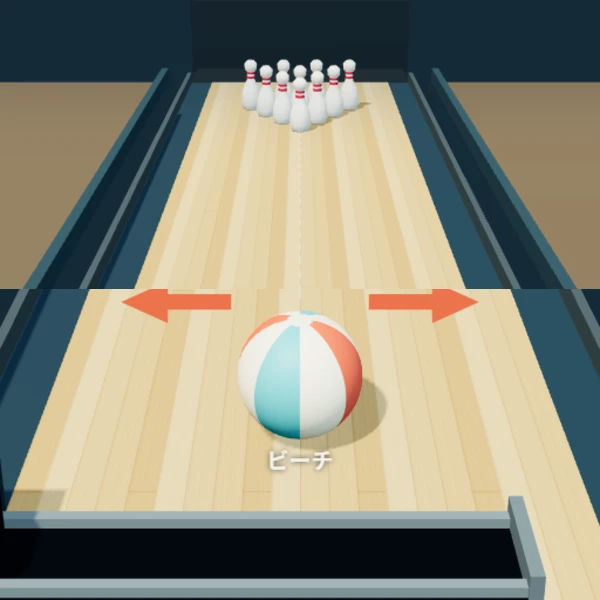
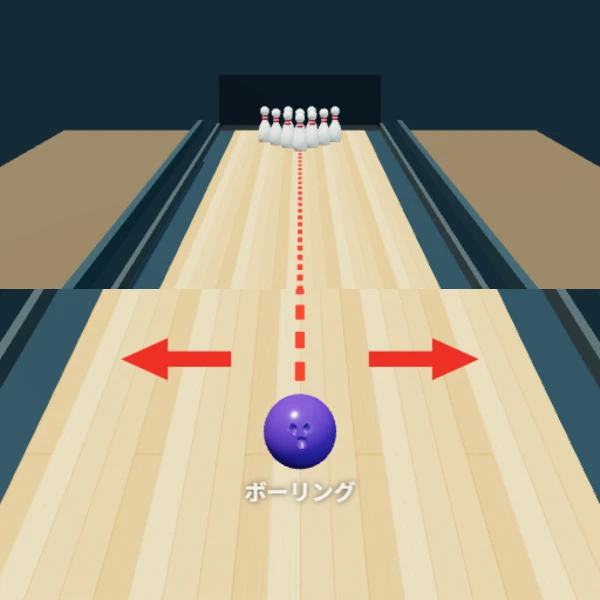
投球線を赤くし球の補充とレーンの奥行きを調整

diff --git a/games/_random-bowling/scene.js b/games/_random-bowling/scene.js
@@ -6,13 +6,13 @@ var ZBowlingScene=(function(){
     this.renderer=new T.WebGLRenderer({antialias:true,alpha:false,preserveDrawingBuffer:true});
     this.renderer.setPixelRatio(1);this.renderer.shadowMap.enabled=true;this.renderer.shadowMap.type=T.PCFSoftShadowMap;
     this.renderer.outputColorSpace=T.SRGBColorSpace;this.renderer.toneMapping=T.ACESFilmicToneMapping;this.renderer.toneMappingExposure=1.25;
-    this.scene=new T.Scene();this.scene.scale.x=-1;this.scene.background=new T.Color('#142a37');this.scene.fog=new T.Fog('#142a37',24,65);
+    this.scene=new T.Scene();this.scene.scale.x=-1;this.scene.background=new T.Color('#142a37');this.scene.fog=new T.Fog('#142a37',42,85);
     this.camera=new T.PerspectiveCamera(52,540/960,.08,100);
-    this.camera.position.set(0,6.6,-8.7);this.camera.lookAt(0,0,9);
+    this.camera.position.set(0,5.4,-8.7);this.camera.lookAt(0,0,14);
     this.follow=0;this.followX=0;this.look=new T.Vector3(0,0,9);this.w=540;this.h=960;
     this.scene.add(new T.HemisphereLight('#deefff','#625743',2.1));
-    var light=new T.DirectionalLight('#fff1d5',3.3);light.position.set(-4,10,6);light.castShadow=true;
-    light.shadow.mapSize.set(2048,2048);Object.assign(light.shadow.camera,{left:-8,right:8,top:20,bottom:-18,near:1,far:40});light.target.position.set(0,0,11);light.shadow.bias=-.0002;this.scene.add(light,light.target);
+    var light=new T.DirectionalLight('#fff1d5',3.3);light.position.set(-4,14,18);light.castShadow=true;
+    light.shadow.mapSize.set(2048,2048);Object.assign(light.shadow.camera,{left:-8,right:8,top:28,bottom:-28,near:1,far:65});light.target.position.set(0,0,20);light.shadow.bias=-.0002;this.scene.add(light,light.target);
     var fill=new T.DirectionalLight('#9dcede',1.3);fill.position.set(5,6,-8);this.scene.add(fill);
     function mat(color,roughness,metalness){return new T.MeshStandardMaterial({color:color,roughness:roughness==null?.5:roughness,metalness:metalness||0});}
     function box(x,y,z,w,h,d,m){var mesh=new T.Mesh(new T.BoxGeometry(w,h,d),m);mesh.position.set(x,y,z);mesh.receiveShadow=true;mesh.castShadow=true;self.scene.add(mesh);return mesh;}
@@ -24,23 +24,20 @@ var ZBowlingScene=(function(){
       for(var y=100+(i%4)*150;y<1024;y+=470){c.fillStyle='rgba(74,48,26,.13)';c.fillRect(i*25.6,y,25.6,1);}
     }
     var wt=new T.CanvasTexture(wood);wt.colorSpace=T.SRGBColorSpace;wt.anisotropy=Math.min(8,this.renderer.capabilities.getMaxAnisotropy());
-    var lane=new T.Mesh(new T.PlaneGeometry(5.3,27),new T.MeshStandardMaterial({map:wt,roughness:.3,metalness:.05}));lane.rotation.x=-Math.PI/2;lane.position.set(0,.002,10.5);lane.receiveShadow=true;this.scene.add(lane);
-    box(0,-.22,10.5,6.8,.4,27,mat('#273d49',.5));
-    [-1,1].forEach(function(s){box(s*2.96,-.12,10.5,.61,.13,27,mat('#0a1820',.28,.4));box(s*3.32,.1,10.5,.12,.38,27,mat('#70838b',.28,.65));});
-    box(0,-.28,25.5,6.7,.3,3,mat('#101d25',.85));box(0,.9,27,7,2.3,.3,mat('#10222d',.75));
+    var lane=new T.Mesh(new T.PlaneGeometry(5.3,39),new T.MeshStandardMaterial({map:wt,roughness:.3,metalness:.05}));lane.rotation.x=-Math.PI/2;lane.position.set(0,.002,16.5);lane.receiveShadow=true;this.scene.add(lane);
+    box(0,-.22,16.5,6.8,.4,39,mat('#273d49',.5));
+    [-1,1].forEach(function(s){box(s*2.96,-.12,16.5,.61,.13,39,mat('#0a1820',.28,.4));box(s*3.32,.1,16.5,.12,.38,39,mat('#70838b',.28,.65));});
+    box(0,-.28,37.5,6.7,.3,3,mat('#101d25',.85));box(0,.9,39,7,2.3,.3,mat('#10222d',.75));
     // 隣のレーンは暗く控えめに置き、奥行きを見せる。
-    [-1,1].forEach(function(s){box(s*7,-.05,10,5.3,.1,28,mat('#675846',.48));box(s*4.05,.22,10,.2,.4,28,mat('#304751',.5));});
+    [-1,1].forEach(function(s){box(s*7,-.05,16,5.3,.1,40,mat('#675846',.48));box(s*4.05,.22,16,.2,.4,40,mat('#304751',.5));});
     for(var i=-3;i<=3;i++){var shape=new T.Shape();shape.moveTo(-.055,0);shape.lineTo(.055,0);shape.lineTo(0,.22);shape.closePath();var arrow=new T.Mesh(new T.ShapeGeometry(shape),mat('#765331',.8));arrow.rotation.x=-Math.PI/2;arrow.position.set(i*.55,.009,6.5+Math.abs(i)*.3);this.scene.add(arrow);}
-    this.returnGroup=new T.Group();this.returnGroup.position.z=.6;this.scene.add(this.returnGroup);
-    function returnBox(x,y,z,w,h,d,color){var m=new T.Mesh(new T.BoxGeometry(w,h,d),mat(color,.3,.45));m.position.set(x,y,z);m.castShadow=true;m.receiveShadow=true;self.returnGroup.add(m);}
-    returnBox(-.7,.08,-2,5.2,.18,.92,'#0b1821');
-    [-2.4,-1.6].forEach(function(z){returnBox(-.7,.22,z,5.2,.10,.10,'#91a3ab');});
-    returnBox(-2.9,.47,-2,.65,1.15,1.12,'#354e5c');returnBox(-2.56,.38,-2,.05,.68,.69,'#07131a');returnBox(1.86,.24,-2,.12,.33,.96,'#82949b');
     this.pinMaterial=mat('#f5f0e6',.24,.04);this.redMaterial=mat('#c52d40',.3);
-    var profile=[[0,.19],[.05,.22],[.19,.26],[.42,.25],[.64,.19],[.81,.105],[1.02,.105],[1.1,.16],[1.24,.17],[1.33,.09],[1.35,.001]];
+    var profile=[[0,0],[0,.19],[.05,.22],[.19,.26],[.42,.25],[.64,.19],[.81,.105],[1.02,.105],[1.1,.16],[1.24,.17],[1.33,.09],[1.35,.001]];
     var pinGeo=new T.LatheGeometry(profile.map(function(p){return new T.Vector2(p[1],p[0]-.47);}),32);
     this.pins=[];
     for(var i=0;i<10;i++){var g=new T.Group(),body=new T.Mesh(pinGeo,this.pinMaterial);body.castShadow=true;g.add(body);
+      // 底面は読み込み前後とも塞ぎ、裏側から見ても抜けない円板にする。
+      var cap=new T.Mesh(new T.CircleGeometry(.195,32),new T.MeshStandardMaterial({color:'#f5f0e6',roughness:.4,side:T.DoubleSide}));cap.rotation.x=Math.PI/2;cap.position.y=-.4705;g.add(cap);
       [.88,1.0].forEach(function(y){var ring=new T.Mesh(new T.CylinderGeometry(.108,.108,.06,24),self.redMaterial);ring.position.y=y-.47;ring.castShadow=true;g.add(ring);});
       this.scene.add(g);this.pins.push(g);
     }
@@ -50,7 +47,7 @@ var ZBowlingScene=(function(){
       var pg=geometry(data.pin);self.pins.forEach(function(p){p.children[0].geometry=pg;});
       var bg=geometry(data.bowling);self.ballMeshes[0].children[0].geometry=bg;self.modelReady=true;
     }).catch(function(e){console.warn(e.message);});
-    this.aimLine=new T.Line(new T.BufferGeometry(),new T.LineDashedMaterial({color:'#f9f1db',dashSize:.36,gapSize:.3,transparent:true,opacity:.82}));this.scene.add(this.aimLine);
+    this.aimLine=new T.Mesh(new T.BufferGeometry(),new T.MeshBasicMaterial({color:'#ee3025',side:T.DoubleSide}));this.scene.add(this.aimLine);
   }
   Scene.prototype.makeBall=function(k){
     var T=THREE,group=new T.Group(),canvas=document.createElement('canvas');canvas.width=512;canvas.height=256;
@@ -90,23 +87,22 @@ var ZBowlingScene=(function(){
   Scene.prototype.screenX=function(x){var v=new THREE.Vector3((x/540)*2-1,0,.5).unproject(this.camera),dir=v.sub(this.camera.position).normalize();return -(this.camera.position.x+dir.x*(.65-this.camera.position.z)/dir.z);};
   Scene.prototype.draw=function(ctx,W,H,data,kind,phase,elapsed,position,aim,dt){
     this.logicalH=H;var T=THREE;
-    var rolling=phase==='roll'||phase==='settle',target=rolling&&data.ball?Math.max(0,Math.min(12,data.ball.z-1.2)):0;
+    var rolling=phase==='roll'||phase==='settle',target=rolling&&data.ball?Math.max(0,Math.min(24,data.ball.z-1.2)):0;
     this.follow+=(target-this.follow)*(1-Math.exp(-3.2*dt));
     this.followX+=((rolling&&data.ball?Math.max(-.7,Math.min(.7,data.ball.x*.16)):0)-this.followX)*(1-Math.exp(-3*dt));
-    var ratio=this.follow/12;
+    var ratio=this.follow/24;
     // 投球後だけ低い位置へ滑らかに寄り、ピンの手前で追従を止める。
-    this.camera.position.set(-this.followX,6.6-ratio*2.4,-8.7+this.follow);
-    this.camera.lookAt(-this.followX*.5,.15,9+this.follow*.75);this.camera.updateMatrixWorld();
+    this.camera.position.set(-this.followX,5.4-ratio*1.2,-8.7+this.follow);
+    this.camera.lookAt(-this.followX*.5,.15,14+this.follow*.65);this.camera.updateMatrixWorld();
     for(var i=0;i<this.pins.length;i++){var p=data.pins[i];if(!p)continue;this.pins[i].position.set(p.x,p.y,p.z);this.pins[i].quaternion.set(p.q.x,p.q.y,p.q.z,p.q.w);}
     this.ballMeshes.forEach(function(m){m.visible=false;});var m=this.ballMeshes[kind.skin];m.visible=true;m.scale.setScalar(kind.r);m.quaternion.identity();
     if(rolling&&data.ball){var b=data.ball;m.position.set(b.x,b.y,b.z);m.quaternion.set(b.q.x,b.q.y,b.q.z,b.q.w);}
-    else if(phase==='return'){var t=Math.min(1,elapsed/1.2),ease=1-(1-t)*(1-t);m.position.set(-3.8+3.8*ease,.25+kind.r,-1.4);m.rotation.z=-ease*3.8/kind.r;}
-    else if(phase==='receive')m.position.set(0,.25+kind.r,-1.4);
-    else if(phase==='place'){var t=Math.min(1,elapsed/.4),ease=t*t*(3-2*t);m.position.set(0,kind.r+.25*(1-ease)+Math.sin(t*Math.PI)*.25,-1.4+2.05*ease);}
+    else if(phase==='return'){var t=Math.min(1,elapsed/1.2),ease=1-(1-t)*(1-t);m.position.set(0,kind.r,-9+8.25*ease);m.rotation.x=ease*8.25/kind.r;}
+    else if(phase==='receive')m.position.set(0,kind.r,-.75);
+    else if(phase==='place'){var t=Math.min(1,elapsed/.4),ease=t*t*(3-2*t);m.position.set(0,kind.r+Math.sin(t*Math.PI)*.12,-.75+1.4*ease);}
     else m.position.set(position,kind.r,.65);
-    this.returnGroup.visible=this.follow<1.5;
     this.aimLine.visible=phase==='position'||phase==='angle';
-    if(this.aimLine.visible){var points=[];for(var z=.65;z<=18;z+=.4)points.push(new T.Vector3(position+aim*(z-.65),.018,z));this.aimLine.geometry.dispose();this.aimLine.geometry=new T.BufferGeometry().setFromPoints(points);this.aimLine.computeLineDistances();}
+    if(this.aimLine.visible){var vertices=[];for(var z=.65;z<30;z+=.85){var end=Math.min(z+.48,30),x=position+aim*(z-.65),ex=position+aim*(end-.65),w=.055;vertices.push(x-w,.025,z,x+w,.025,z,ex+w,.025,end,x-w,.025,z,ex+w,.025,end,ex-w,.025,end);}this.aimLine.geometry.dispose();this.aimLine.geometry=new T.BufferGeometry();this.aimLine.geometry.setAttribute('position',new T.Float32BufferAttribute(vertices,3));}
     this.renderer.render(this.scene,this.camera);ctx.drawImage(this.renderer.domElement,0,0,W,H);
   };
   return Scene;

diff --git a/games/_random-bowling/physics.js b/games/_random-bowling/physics.js
@@ -26,10 +26,10 @@ var ZBowlingPhysics=(function(C){
     this.world.defaultContactMaterial.contactEquationRelaxation=3;
     var self=this;
     function box(x,y,z,sx,sy,sz){var b=new C.Body({mass:0,material:self.floorMat,shape:new C.Box(new C.Vec3(sx/2,sy/2,sz/2)),position:new C.Vec3(x,y,z)});self.world.addBody(b);}
-    box(0,-.18,10.5,5.3,.36,27);
-    box(-2.96,-.42,10.5,.62,.24,27);box(2.96,-.42,10.5,.62,.24,27);
-    box(-3.32,.06,10.5,.12,.9,27);box(3.32,.06,10.5,.12,.9,27);
-    box(0,-.25,25.5,6.8,.4,3);box(0,.65,27,6.8,1.8,.25);
+    box(0,-.18,16.5,5.3,.36,39);
+    box(-2.96,-.42,16.5,.62,.24,39);box(2.96,-.42,16.5,.62,.24,39);
+    box(-3.32,.06,16.5,.12,.9,39);box(3.32,.06,16.5,.12,.9,39);
+    box(0,-.25,37.5,6.8,.4,3);box(0,.65,39,6.8,1.8,.25);
     this.pins=[];this.ball=null;this.time=0;this.accumulator=0;this.impact=0;this.reset(kinds[0]);
   }
   Game.prototype.reset=function(kind){
@@ -38,7 +38,7 @@ var ZBowlingPhysics=(function(C){
     if(this.ball)this.world.removeBody(this.ball);
     this.ball=null;this.kind=kind;this.time=0;this.accumulator=0;this.impact=0;this.pins=[];
     for(var row=0;row<4;row++)for(var col=0;col<=row;col++){
-      var b=new C.Body({mass:1.5,material:this.pinMat,position:new C.Vec3((col-row/2)*.88,.47,18+row*.81),linearDamping:.2,angularDamping:.22});
+      var b=new C.Body({mass:1.5,material:this.pinMat,position:new C.Vec3((col-row/2)*.88,.47,30+row*.81),linearDamping:.2,angularDamping:.22});
       b.addShape(new C.Cylinder(.26,.21,.5,12),new C.Vec3(0,-.20,0));
       b.addShape(new C.Cylinder(.105,.26,.35,12),new C.Vec3(0,.225,0));
       b.addShape(new C.Cylinder(.105,.105,.23,12),new C.Vec3(0,.515,0));
@@ -86,7 +86,7 @@ var ZBowlingPhysics=(function(C){
     if(!this.ball)return false;
     if(this.time>9)return true;
     var still=this.pins.every(function(p){return p.body.velocity.length()<.15&&p.body.angularVelocity.length()<.2;});
-    return this.time>2.5&&still&&(this.ball.position.z>23||this.ball.velocity.length()<.25||this.ball.position.y<-2||this.ball.velocity.z<-.3);
+    return this.time>2.5&&still&&(this.ball.position.z>35||this.ball.velocity.length()<.25||this.ball.position.y<-2||this.ball.velocity.z<-.3);
   };
   return {Game:Game,kinds:kinds};
 })(typeof CANNON!=='undefined'?CANNON:require('./vendor/cannon.js'));

diff --git a/games/_tools/tests/random-bowling-render.js b/games/_tools/tests/random-bowling-render.js
@@ -3,7 +3,7 @@ var fs=require('fs'),path=require('path'),http=require('http'),os=require('os'),
 var root=path.resolve(__dirname,'../../..'),out=fs.mkdtempSync(path.join(os.tmpdir(),'bowling-view-'));
 var child,timer;
 var hook=`
-  window.__visual={pick:function(i){scoreTime=0;history=[];shot=0;state=S.PLAY;kind=kinds[i];world.reset(kind);syncPhysics();phase='position';position=0;aim=.01;view3d.follow=0;view3d.followX=0;draw();return project(0,kind.r,.65);},fit:function(h){H=h;view3d.resize(540,h);draw();var p=project(2.1,kind.r,.65);layout();return p.x;}};
+  window.__visual={supply:function(t){phase='return';elapsed=t;view3d.follow=0;draw();var p=view3d.ballMeshes[kind.skin].position;return project(p.x,p.y,p.z);},bottom:function(){return view3d.pins.every(function(p){return p.children.some(function(m){return m.geometry.type==='CircleGeometry'&&m.material.side===THREE.DoubleSide;});});},pick:function(i){scoreTime=0;history=[];shot=0;state=S.PLAY;kind=kinds[i];world.reset(kind);syncPhysics();phase='position';position=0;aim=.01;view3d.follow=0;view3d.followX=0;draw();return project(0,kind.r,.65);},fit:function(h){H=h;view3d.resize(540,h);draw();var p=project(2.1,kind.r,.65);layout();return p.x;}};
 `;
 var runner=`<script>
 window.__recordManual=true;
@@ -19,7 +19,7 @@ window.__recordManual=true;
       c.drawImage(cv,(p.x-82)*scale,(p.y-74)*scale,164*scale,164*scale,(i%5)*240,Math.floor(i/5)*240,240,240);
     }
     await save('種類.png',all);
-    window.__visual.pick(0);await save('投球前.png',cv);key();key();
+    window.__visual.pick(0);var entry=window.__visual.supply(0),arrived=window.__visual.supply(1.2);if(entry.y<window.__probe.now().H||arrived.y>=entry.y||Math.abs(arrived.x-270)>1)throw Error('球が画面下から中央へ補充されない');if(!window.__visual.bottom())throw Error('ピンの底板がない');window.__visual.pick(0);await save('投球前.png',cv);key();key();
     for(var i=0;i<90;i++)window.__probe.step(1);
     var first=window.__probe.now();await save('追従.png',cv);
     for(var i=0;i<90;i++)window.__probe.step(1);

diff --git a/games/_random-bowling/index.html b/games/_random-bowling/index.html
@@ -154,7 +154,7 @@
   }
   function move(x,y) {
     if(!held) return;
-    if(phase==='position') position=clamp((x-270)*9.65/720,-2.1,2.1);
+    if(phase==='position') position=clamp((view3d?view3d.screenX(x):(x-270)*9.65/720),-2.1,2.1);
     else if(phase==='angle') aim=clamp(dragAim+(x-dragX)/600,-.3,.3);
   }
   function up() {
@@ -229,7 +229,7 @@
     if(state!==S.PLAY || (phase!=='position'&&phase!=='angle')) return;
     var center=project(position,kind.r,.65);
     ctx.save();ctx.translate(center.x,center.y-65);
-    var size=Math.min(1,(Math.min(center.x,W-center.x)-8)/161);ctx.scale(size,size);ctx.fillStyle='#ec734b';
+    var size=Math.min(1,(Math.min(center.x,W-center.x)-8)/161);ctx.scale(size,size);ctx.fillStyle='#ee3025';
     [-1,1].forEach(function(side) {
       ctx.save();ctx.scale(side,1);
       ctx.beginPath();

diff --git a/games/_random-bowling/README.md b/games/_random-bowling/README.md
@@ -1,7 +1,7 @@
 # ランダムボーリングの下書き
 
 位置を決める → 角度を決めて離す、の操作。パワーゲージは使わない。
-球は左から一球ずつ届き、停止後に投球位置へ移る。球名と投球線は到着後に出る。
+球は画面下から一球ずつ届き、停止後に投球位置へ移る。受け取りレーンは置かない。球名と投球線は到着後に出る。
 10投の倒した本数を合計し、結果更新時だけスコア欄を二秒表示する。
 
 ## 作り
@@ -15,6 +15,8 @@
 球ごとの半径・質量・摩擦・反発・空気抵抗・投球速度は `physics.js` の `kinds` にまとめてある。
 球を上下させる演出や、当たっただけでピンを倒す処理は使わない。傾きが約46度を超えるか、レーン外へ落ちたピンを倒れたものとして数える。
 ピンが静まり、球が通過・停止・跳ね返りしたら投球を終了する。最大九秒で終了し、止まらない球にも備える。
+
+先頭のピンまでの距離は約29単位に延ばし、投球前のカメラを低くして奥行きを見せる。投球線は赤い太さ付きの破線。
 
 投球後のカメラは球の進行方向を追いながら低くなり、ピンの手前で前進を止める。次の球では滑らかに元へ戻る。
 
